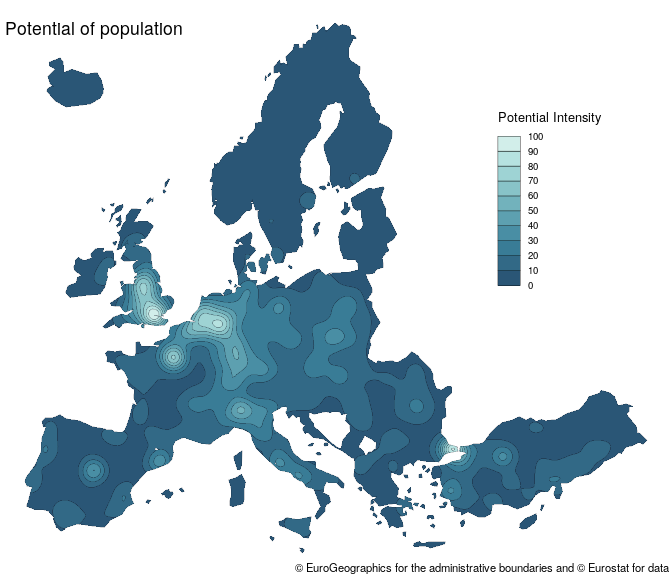
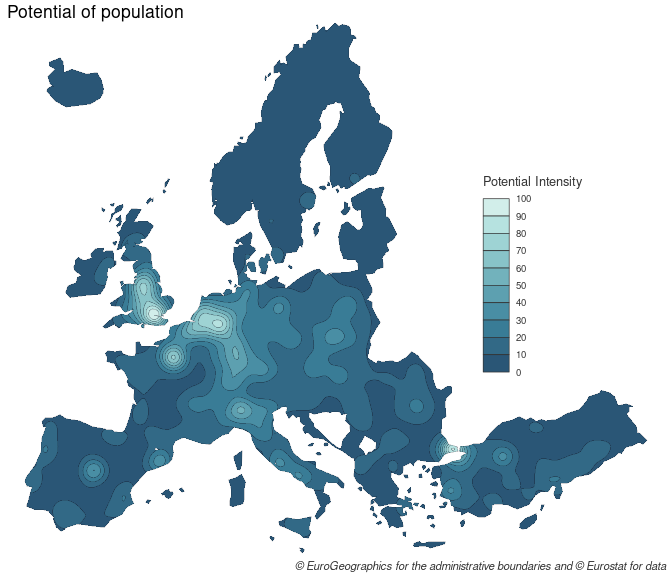
fix: use mapiso instead of custom fun

Changed region(s): [[0.7188, 0.1875, 0.9062, 0.6562], [0.4375, 0.9688, 1.0, 1.0], [0.0, 0.0, 0.2812, 0.0625]]

diff --git a/README.md b/README.md
@@ -3,7 +3,7 @@
 
 [![](https://www.r-pkg.org/badges/version/potential)](https://cran.r-project.org/package=potential)
 [![R-CMD-check](https://github.com/riatelab/potential/workflows/R-CMD-check/badge.svg)](https://github.com/riatelab/potential/actions)
-<!-- [![codecov](https://codecov.io/gh/riatelab/potential/branch/master/graph/badge.svg?token=G8MZTHC9KQ)](https://codecov.io/gh/riatelab/potential) -->
+[![codecov](https://codecov.io/gh/riatelab/potential/branch/master/graph/badge.svg?token=G8MZTHC9KQ)](https://app.codecov.io/gh/riatelab/potential)
 
 This package provides functions to compute the potential model as
 defined by Stewart (1941). Several options are available to customize
@@ -56,12 +56,13 @@ pot <- mcpotential(
 # Define potential according to the maximum value
 y$pot <- pot / max(pot) * 100
 # create equipotential areas
-equipot <- equipotential(y, var = "pot", mask = n3_poly)
+bks <- seq(0, 100, length.out = 11)
+equipot <- equipotential(y, var = "pot", breaks = bks, mask = n3_poly)
 # map potentials
 mf_theme("default")
-mf_map(x = equipot, var = "center", type = "choro", 
-       breaks = seq(0,100,length.out = 11), 
-       pal = hcl.colors(10, 'teal'),
+mf_map(x = equipot, var = "min", type = "choro", 
+       breaks = bks, 
+       pal = hcl.colors(10, 'Teal'),
        border = "#121725", 
        leg_val_rnd = 0,
        lwd = .2, 
